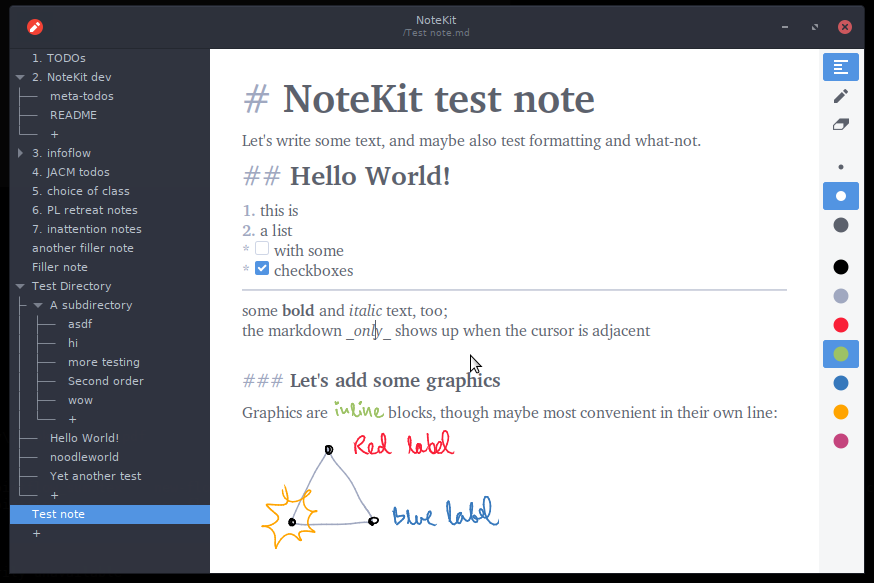
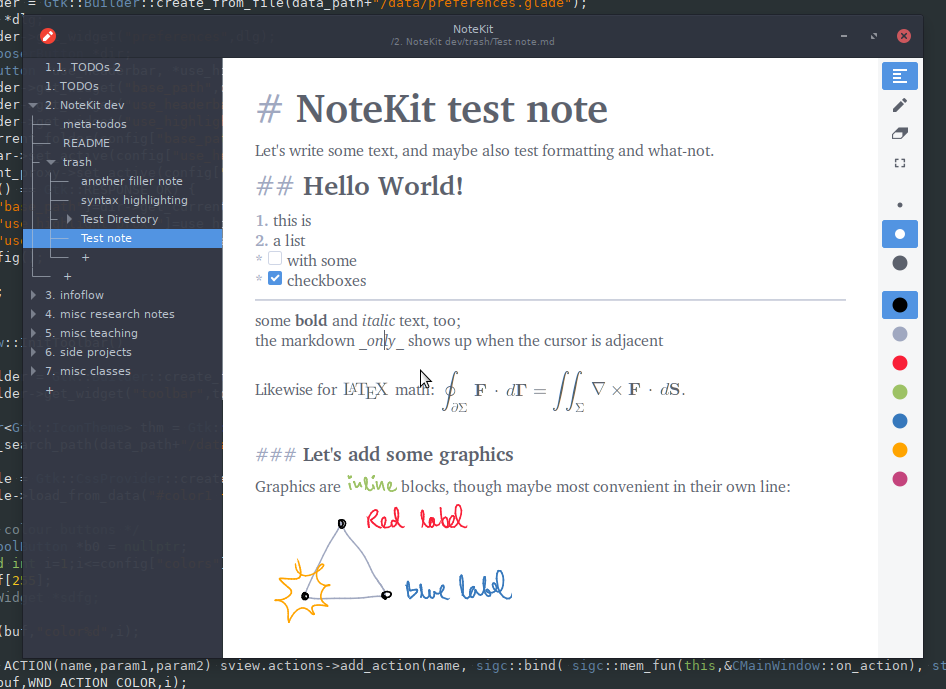
Update screenshots in README file.

Changed region(s): [[0.0, 0.0, 1.0, 1.0], [0.0618, 0.741, 0.1545, 0.8336], [0.0618, 0.6175, 0.1545, 0.7101]]

diff --git a/README.md b/README.md
@@ -79,6 +79,10 @@ Development and testing was exclusively conducted on X11-based Linux. The one te
 * Due to present limitations, drawing clears the undo stack.
 * When copypasting text into other applications, drawings will be automatically converted into data URL PNGs.
 
+### Syntax highlighting
+
+![Screenshot](/screenshots/syntax-highlighting.png?raw=true)
+
 ### Misc
 
 * The program loads a custom Gtk+ stylesheet found in `data/stylesheet.css`. Clear it if parts of the UI look wonky.
